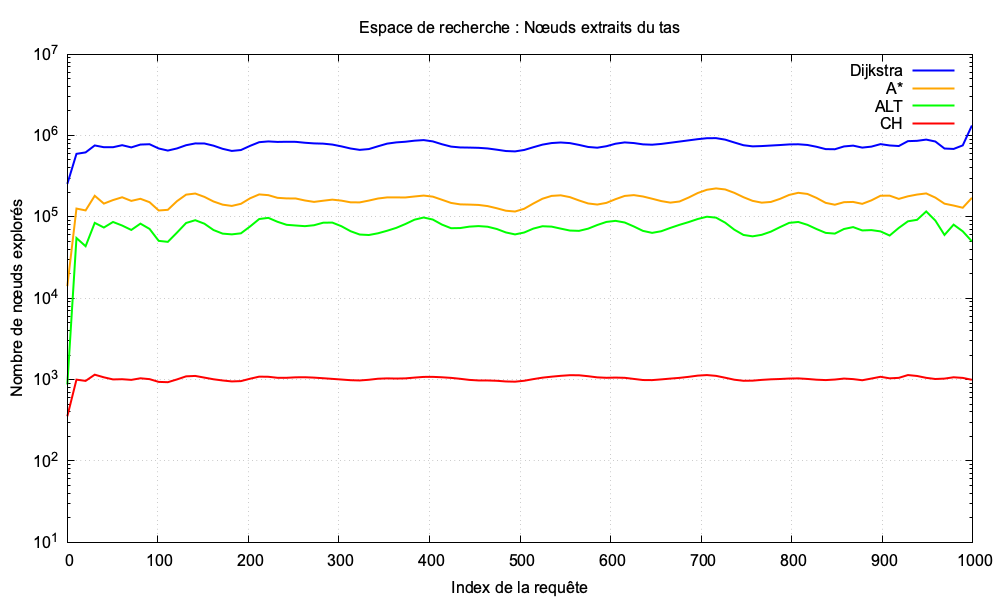
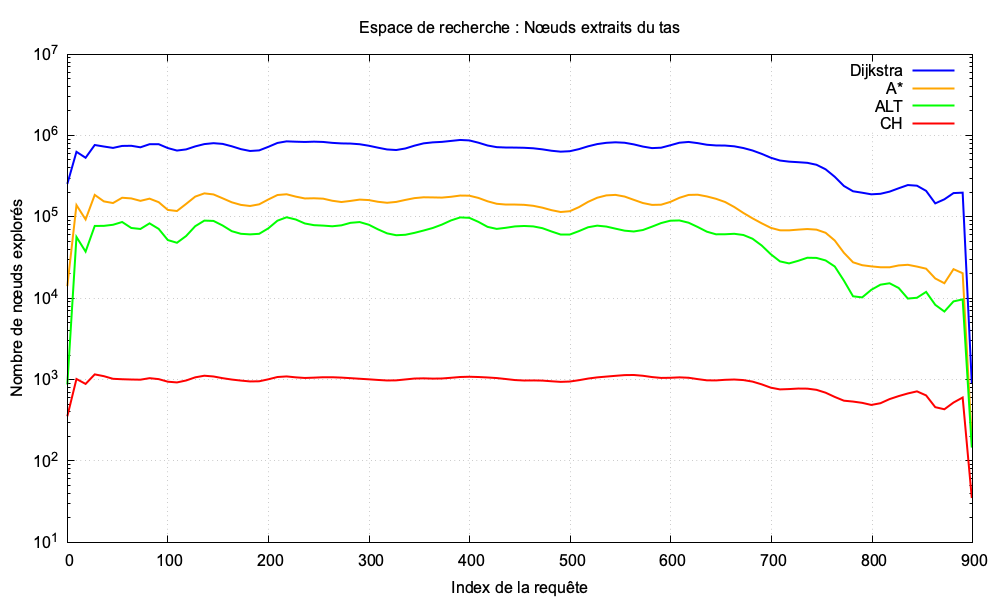
changer radical des tests- control de distance

diff --git a/src/main.c b/src/main.c
@@ -8,7 +8,7 @@
 #include "tas.h"
 #include "analyzer.h" 
 
-#define NB_REQUETES 1000
+#define NB_REQUETES 900
 #define SEED_EVAL 42
 
 void run_evaluation(csr_graph_t *graphe, coordonnees_t *coords, ch_graph_t *ch, double **distances_landmarks, int nb_landmarks) {
@@ -17,43 +17,59 @@ void run_evaluation(csr_graph_t *graphe, coordonnees_t *coords, ch_graph_t *ch, 
 
     // analyse du temps
     analyzer_t *t_dijkstra = analyzer_create();
-    analyzer_t *t_astar    = analyzer_create();
-    analyzer_t *t_alt      = analyzer_create();
-    analyzer_t *t_ch       = analyzer_create();
+    analyzer_t *t_astar = analyzer_create();
+    analyzer_t *t_alt = analyzer_create();
+    analyzer_t *t_ch = analyzer_create();
 
     // analyse des extractions
     analyzer_t *e_dijkstra = analyzer_create();
-    analyzer_t *e_astar    = analyzer_create();
-    analyzer_t *e_alt      = analyzer_create();
-    analyzer_t *e_ch       = analyzer_create();
+    analyzer_t *e_astar = analyzer_create();
+    analyzer_t *e_alt = analyzer_create();
+    analyzer_t *e_ch = analyzer_create();
+
+    // analyse des relaxations
+    analyzer_t *r_dijkstra = analyzer_create();
+    analyzer_t *r_astar = analyzer_create();
+    analyzer_t *r_alt = analyzer_create();
+    analyzer_t *r_ch = analyzer_create();
 
     // analyse des mémoires
     analyzer_t *m_dijkstra = analyzer_create();
-    analyzer_t *m_astar    = analyzer_create();
-    analyzer_t *m_alt      = analyzer_create();
-    analyzer_t *m_ch       = analyzer_create();
+    analyzer_t *m_astar = analyzer_create();
+    analyzer_t *m_alt = analyzer_create();
+    analyzer_t *m_ch = analyzer_create();
 
     srand(SEED_EVAL);
-    int success_count = 0;
-    int tentatives = 0;
-
     // Dijkstra, A* et ALT utilisent: tableau dist (double) + tableau pred (int) + tas (element_tas_t)
     double mem_classique = (graphe->nb_noeuds * (sizeof(double) + sizeof(int))) + (graphe->nb_aretes * sizeof(element_tas_t));
     
     // CH utilise: 2 tableaux dist (aller/retour) + 2 tas basés sur le graphe ascendant
     double mem_contraction = (2 * ch->num_noeuds * sizeof(double)) + (2 * (ch->up_first_arete[ch->num_noeuds] + 1) * sizeof(element_tas_t));
 
-    while (success_count < NB_REQUETES) {
-        tentatives++;
-        
+    int success_total = 0;
+    int success_court = 0;
+    int success_moyen = 0;
+    int success_long = 0;
+    int par_categorie = NB_REQUETES / 3; // pour avoir 3 categories de tests selon leur distance
+
+    while (success_total < NB_REQUETES) {
         int s = rand() % graphe->nb_noeuds;
         int t = rand() % graphe->nb_noeuds;
-
-        // Dijkstra
-        resultat_t res_d = dijkstra(graphe, s, t);
         
+        resultat_t res_d = dijkstra(graphe, s, t);
         // si aucun chemin n'existe, on ignore cette paire
         if (res_d.distance == INFINI) continue; 
+
+        //on classe les distances dans differentes categories
+        int categorie = -1;
+        if (res_d.distance < 25000) categorie = 0; // tests sur distance courte
+        else if (res_d.distance < 50000) categorie = 1; // tests sur distance moyenne
+        else categorie = 2; // test sur longue distance
+
+        // on remplit les categories et on s arrete si chacune l'est
+        if (categorie == 0 && success_court >= par_categorie) continue;
+        if (categorie == 1 && success_moyen >= par_categorie) continue;
+        if (categorie == 2 && success_long >= par_categorie) continue;
 
         resultat_t res_a = a_star(graphe, coords, s, t);
         resultat_t res_l = alt(graphe, s, t, nb_landmarks, distances_landmarks);
@@ -64,30 +80,38 @@ void run_evaluation(csr_graph_t *graphe, coordonnees_t *coords, ch_graph_t *ch, 
         
         if (fabs(res_a.distance - res_d.distance) > epsilon || fabs(res_l.distance - res_d.distance) > epsilon || fabs(res_c.distance - res_d.distance) > epsilon ) {
             // on signale l'erreur mais on l'accepte pour ne pas bloquer les statistiques de temps
-            fprintf(stderr, "petite divergence : Dijkstra = %.2f, A* = %.2f, Alt = %2.f et CH=%.2f\n", res_d.distance, res_a.distance, res_l.distance, res_c.distance);
+            fprintf(stderr, "petite divergence : Dijkstra = %.2f, A* = %.2f, Alt = %.2f et CH=%.2f\n", res_d.distance, res_a.distance, res_l.distance, res_c.distance);
         }
 
         // On enregistre les données
         analyzer_append(t_dijkstra, res_d.temps_sec);
         analyzer_append(e_dijkstra, (double)res_d.extractions);
         analyzer_append(m_dijkstra, mem_classique);
+        analyzer_append(r_dijkstra, (double)res_d.relaxations);
 
         analyzer_append(t_astar, res_a.temps_sec);
         analyzer_append(e_astar, (double)res_a.extractions);
         analyzer_append(m_astar, mem_classique);
+        analyzer_append(r_astar, (double)res_a.relaxations);
 
         analyzer_append(t_alt, res_l.temps_sec);
         analyzer_append(e_alt, (double)res_l.extractions);
         analyzer_append(m_alt, mem_classique);
+        analyzer_append(r_alt,(double)res_l.relaxations);
 
         analyzer_append(t_ch, res_c.temps_sec);
         analyzer_append(e_ch, (double)res_c.extractions);
         analyzer_append(m_ch, mem_contraction);
+        analyzer_append(r_ch, (double)res_c.relaxations);
 
-        success_count++;
+        if (categorie == 0) success_court++;
+        else if (categorie == 1) success_moyen++;
+        else success_long++;
+        
+        success_total++;
 
-        if (success_count % 100 == 0) {
-            printf("Progression : %d / %d trajets trouves (apres %d tentatives)\n", success_count, NB_REQUETES, tentatives);
+        if (success_total % 100 == 0) {
+            printf("Progression selon les distancess : %d/%d (courtes:%d, moy:%d, longues:%d)\n", success_total, NB_REQUETES, success_court, success_moyen, success_long);
         }
     }
 
@@ -103,13 +127,18 @@ void run_evaluation(csr_graph_t *graphe, coordonnees_t *coords, ch_graph_t *ch, 
     save_values(e_astar,    "results/extract_astar.plot");
     save_values(e_alt,      "results/extract_alt.plot");
     save_values(e_ch,       "results/extract_ch.plot");
+    // relaxatins
+    save_values(r_dijkstra, "results/relaxations_dijkstra.plot");
+    save_values(r_astar,    "results/relaxations_astar.plot");
+    save_values(r_alt,      "results/relaxations_alt.plot");
+    save_values(r_ch,       "results/relaxations_ch.plot");
 
-    printf("\n--- BILAN SUR %d REQUETES REUSSIES ---\n", success_count);
-    printf("Algo      | Temps Moyen (ms) | Extractions Moy. | Ecart-type Temps | RAM (Mo)\n");
-    printf("Dijkstra  | %16.4Lf | %16.0Lf | %16.4Lf | %8.2Lf\n", get_average_cost(t_dijkstra)*1000, get_average_cost(e_dijkstra), get_standard_deviation(t_dijkstra)*1000, get_average_cost(m_dijkstra)/1024.0);
-    printf("A*        | %16.4Lf | %16.0Lf | %16.4Lf | %8.2Lf\n", get_average_cost(t_astar)*1000, get_average_cost(e_astar), get_standard_deviation(t_astar)*1000, get_average_cost(m_astar)/1024.0);
-    printf("ALT       | %16.4Lf | %16.0Lf | %16.4Lf | %8.2Lf\n", get_average_cost(t_alt)*1000, get_average_cost(e_alt), get_standard_deviation(t_alt)*1000, get_average_cost(m_alt)/1024.0);
-    printf("CH        | %16.4Lf | %16.0Lf | %16.4Lf | %8.2Lf\n", get_average_cost(t_ch)*1000, get_average_cost(e_ch), get_standard_deviation(t_ch)*1000, get_average_cost(m_ch)/1024.0);
+    printf("\n bilan des %d requetes ---\n", success_total);
+    printf("Algo      | Temps Moyen (ms) | Extractions Moy.| Relaxations Moy.| Ecart-type Temps | RAM (Mo)\n");
+    printf("Dijkstra  | %16.4Lf | %16.4Lf |%16.4Lf| %16.4Lf | %8.2Lf\n", get_average_cost(t_dijkstra)*1000, get_average_cost(e_dijkstra),get_average_cost(r_dijkstra), get_standard_deviation(t_dijkstra)*1000, get_average_cost(m_dijkstra)/1024.0);
+    printf("A*        | %16.4Lf | %16.0Lf |%16.4Lf| %16.4Lf | %8.2Lf\n", get_average_cost(t_astar)*1000, get_average_cost(e_astar),get_average_cost(r_astar), get_standard_deviation(t_astar)*1000, get_average_cost(m_astar)/1024.0);
+    printf("ALT       | %16.4Lf | %16.0Lf |%16.4Lf| %16.4Lf | %8.2Lf\n", get_average_cost(t_alt)*1000, get_average_cost(e_alt),get_average_cost(r_alt), get_standard_deviation(t_alt)*1000, get_average_cost(m_alt)/1024.0);
+    printf("CH        | %16.4Lf | %16.0Lf |%16.4Lf| %16.4Lf | %8.2Lf\n", get_average_cost(t_ch)*1000, get_average_cost(e_ch),get_average_cost(r_ch), get_standard_deviation(t_ch)*1000, get_average_cost(m_ch)/1024.0);
     
     analyzer_destroy(t_dijkstra);
     analyzer_destroy(e_dijkstra);
